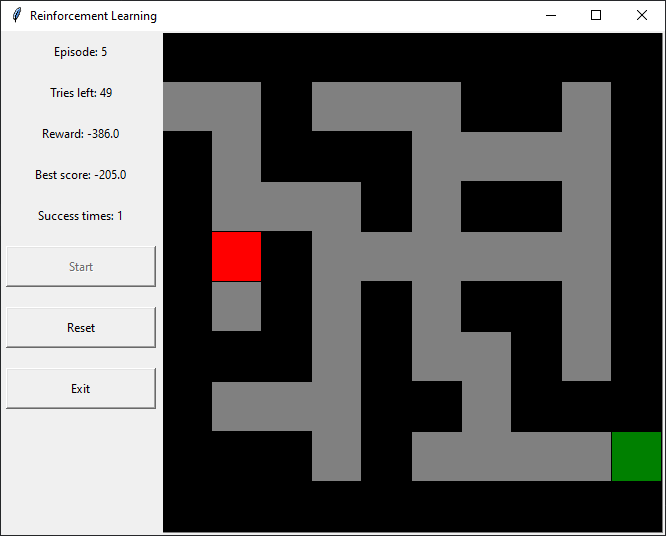
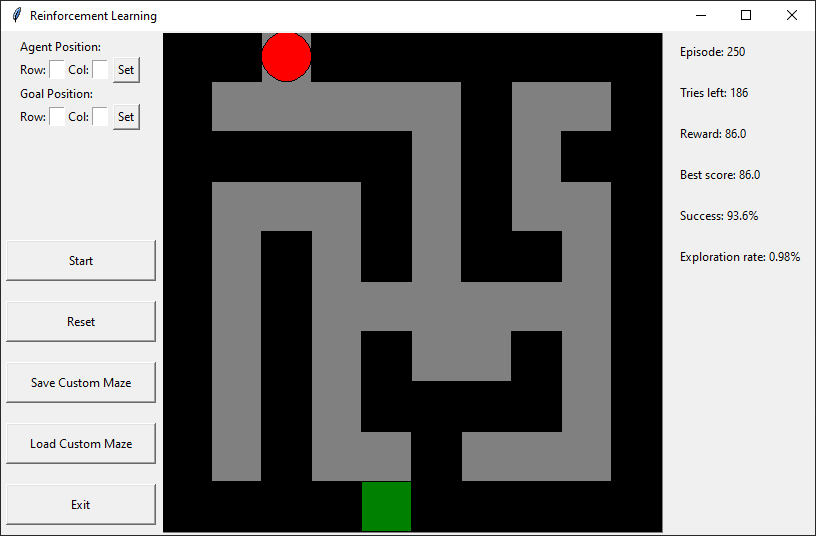
update README file to include all previous changes

diff --git a/q-learning/qlearning.py b/q-learning/qlearning.py
@@ -8,7 +8,7 @@ import sys
 # Q-Learning parameters
 LEARNING_RATE = 0.05                                    # How big or small step to make each iteration
 DISCOUNT      = 0.95                                    # How much value future rewards over current rewards
-EPISODES      = 500                                     # Maximum number of episodes to run
+EPISODES      = 250                                     # Maximum number of episodes to run
 epsilon       = 1                                       # Epsilon greedy strategy (Exploration percentage)
 
 # Initialization of tables (10 x 10) and positions

diff --git a/q-learning/README.md b/q-learning/README.md
@@ -4,27 +4,47 @@ Q-learning is a model-free reinforcement learning algorithm. It uses software ag
 
 ## How it works
 
-Reinforcement learning, and Q-Learning more specifically needs the following to operate:
-
-* A virtual agent
-* A set of states
-* A set of actions per state
-* A set of rewards
-
-Moreover, a learning rate has to be set, which determing the rate the algorithm is learning throughout the episodes, as well as a discount factor, which determines the importance of future rewards. A lower value of discount means that the agent will only value current rewards. The exact formula of the algorithm is shown below:
+Q-Learning uses the following formula to transform the Q-Table's values:
 
 ![qlearning](/images/qlearning.png)
 
+To be more specific, the q-learning algorithm utilizes the following:
+
+* ***A virtual agent***, capable of moving around and exchanging information with the environment (maze).
+* ***A set of states***, which represent all the possible states that the agent can be on each timestep.
+* ***A set of actions*** per state. These must be known to the agent, in order for it to know what are all the available the possibilities.
+* ***A set of rewards***. This means that the agent gets a reward upon moving to a new state.
+* ***A learning rate***, which determines the rate the algorithm is learning throughout the episodes
+* ***A discount factor***, which determines the importance of future rewards. A lower value of discount means that the agent will only value current rewards.
+
+This project also includes a policy called ***epsilon greedy strategy***. This strategy makes use of a variable epsilon, ranging from 0 to 1, that indicates the percentage of exploration the agent wants to do. For instance, on the first episode we need the agent to do a lot of exploration so an epsilon value of 1 means 100% exploration. When episodes go on and the agent has explored the environment, this epsilon reduces itself, and this reduction means that the agent is getting more *greedy* for the best reward. This procedure is used in order to minimize the possibility of finding a path to the goal that is not optimal
+
 ## Implementation
 
-Upon running this project, you are welcomed by a graphical user interface, with a menu on the right that is showing the episode number, the current amount of tries done on each episode, the total reward the agent got and the best reward. Below these labels, are three buttons for starting the application, resetting and exiting.
+This implementation supports a graphical user interface. On the top left there are options to change the position of the goal and the agent. Below these options there is the main menu, which contains a set of buttons which can do the following actions:
+
+* Start the simulation process (Running 250 episodes)
+* Reset the maze to its initial state
+* Save or load the maze's layout to/from a csv file
+* Exit the application
+
+On the right hand side, there is a column of labels that are showing some parameters and statistics of the current state. These parameters include:
+
+* Episode number
+* Current amount of tries left for each episode
+* Total reward for each episode
+* Best accumulated score
+* Success rate of all the episodes
+* Exploration rate (1 - 100%)
+
+Last but not least, in the middle of these two columns, there is the maze layout. The user can modify this environment by clicking on the grid (Left mouse button to place a wall, right button to remove it).
 
 ![qlearning_gui](/images/qlearning_gui.png)
 
 Starting the simulation, the software agent starts to take actions and receive rewards for these actions. The rewards are given by the following table:
 
-* When the agent (*red*) moves one tile it gets a reward of **-1**
-* When it tries to move on a wall (*black*) it gets a score of **-10**
-* Upon reaching the goal position (*green*), it gets a score of **100**
+* **-1**, when the agent (*red circle*) moves one tile
+* **-10**, when it tries to move on a wall (*black square*)
+* **100**, upon reaching the goal position (*green square*)
 
-There are by default 1000 episodes to run, and each episode the agent has 200 tries to move around. After reaching either the maximum amount of tries or the goal position, the environment gets reset and a new episode starts. Last but not least, the user can modify the environment by clicking on the grid (Left mouse button to place a wall, right button to remove it).
+There are by default 250 episodes to run, and each episode the agent has 200 tries to move around. After reaching either the maximum amount of tries or the goal position, the environment gets reset and a new episode starts.
